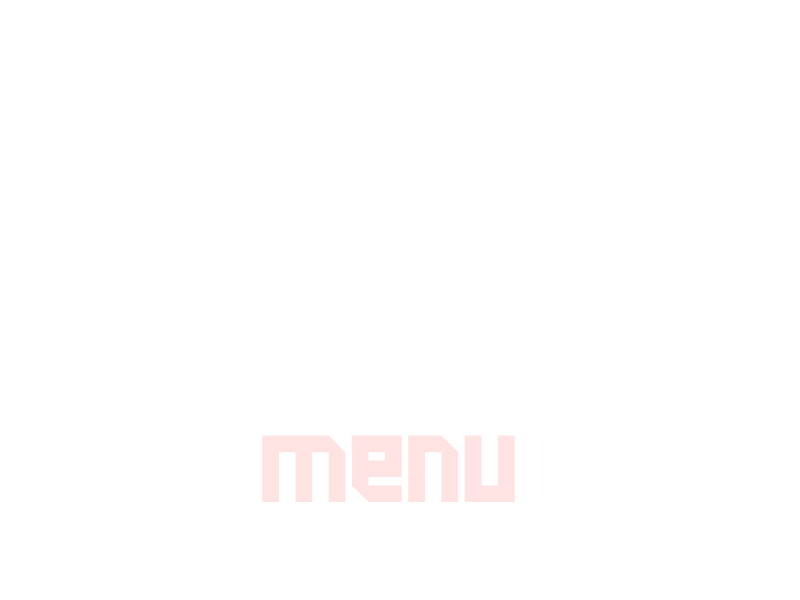
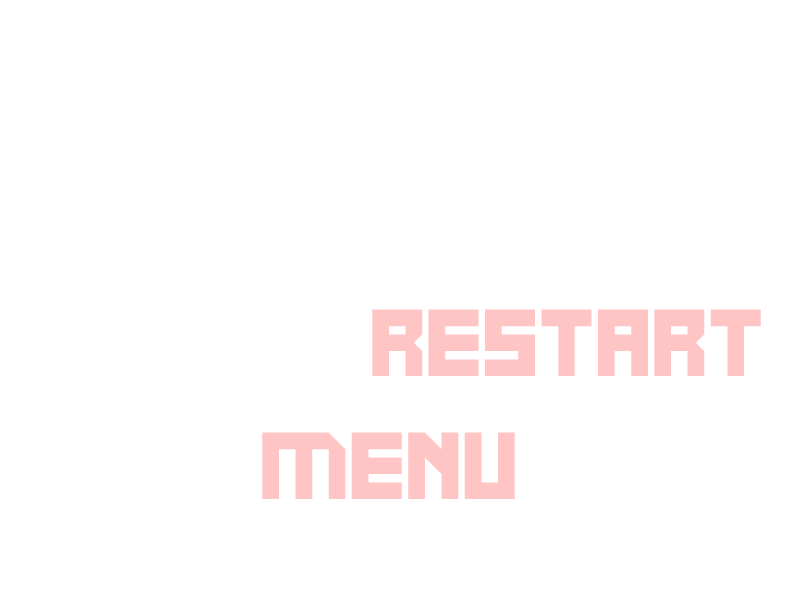
Added score

Changed region(s): [[0.4375, 0.51, 0.9688, 0.63], [0.3125, 0.72, 0.6562, 0.84]]

diff --git a/src/main/java/GameOverScene.java b/src/main/java/GameOverScene.java
@@ -6,22 +6,35 @@ import java.io.File;
 public class GameOverScene extends Scene{
     private ML mouseListener;
     private BufferedImage title, menu, menuPressed, blurBackground, brokenHeart, score, restart, restartPressed;
+    private BufferedImage zero, one, two, three, four, five, six, seven, eight, nine;
     private BufferedImage menuCurrentImage, restartCurrentImage;
     private Rect menuRect, restartRect;
+    private char[] scoreNum = String.valueOf(Food.score).toCharArray();
 
     public GameOverScene(ML mouseListener) {
         this.mouseListener = mouseListener;
+        System.out.println(Food.score);
 
         try {
             BufferedImage background = ImageIO.read(new File("\\Snake\\src\\main\\resources\\background.png"));
             BufferedImage bHeart = ImageIO.read(new File("\\Snake\\src\\main\\resources\\broken-heart-2.png"));
-            BufferedImage spriteSheet = ImageIO.read(new File("\\Snake\\src\\main\\resources\\gameOverMenu1.png"));
+            BufferedImage spriteSheet = ImageIO.read(new File("\\Snake\\src\\main\\resources\\gameOverMenu.png"));
             title = spriteSheet.getSubimage(11, 511, 614, 80);
-            score = spriteSheet.getSubimage(15, 389, 154, 40);
+            score = spriteSheet.getSubimage(15, 389, 184, 40);
             menu = spriteSheet.getSubimage(13, 441, 223, 60);
             menuPressed = spriteSheet.getSubimage(261, 431, 255, 69);
             restart = spriteSheet.getSubimage(16, 317, 343, 60);
             restartPressed = spriteSheet.getSubimage(371, 308, 390, 67);
+            zero = spriteSheet.getSubimage(18, 273, 31, 40);
+            one = spriteSheet.getSubimage(51, 273, 11, 40);
+            two = spriteSheet.getSubimage(64, 273, 31, 40);
+            three = spriteSheet.getSubimage(98, 273, 29, 40);
+            four = spriteSheet.getSubimage(131, 273, 30, 40);
+            five = spriteSheet.getSubimage(164, 273,31 , 40);
+            six = spriteSheet.getSubimage(197, 273, 31, 40);
+            seven = spriteSheet.getSubimage(231, 273, 30, 40);
+            eight = spriteSheet.getSubimage(264, 273, 31, 40);
+            nine =spriteSheet.getSubimage(297, 273, 31, 40);
 
             brokenHeart = bHeart;
             blurBackground = background;
@@ -66,6 +79,23 @@ public class GameOverScene extends Scene{
         graphics.drawImage(title, 100, 90, 594, 80, null);
         graphics.drawImage(menuCurrentImage, 290, 360, 223, 60, null);
         graphics.drawImage(restartCurrentImage, 232, 260, 343, 60, null);
-//        graphics.drawImage(score, 240, 250, 154, 40, null);
+
+        int y = 530;
+        int x = 185;
+        int scoreHeight = 40;
+        graphics.drawImage(score, 20, y, 154, scoreHeight, null);
+
+        for(int i = 0; i < scoreNum.length; i++) {
+            if(scoreNum[i] == '0') {graphics.drawImage(zero, x, y, 31, scoreHeight, null); x += 34;}
+            if(scoreNum[i] == '1') {graphics.drawImage(one, x, y, 11, scoreHeight, null); x += 14;}
+            if(scoreNum[i] == '2') {graphics.drawImage(two, x, y, 31, scoreHeight, null); x += 34;}
+            if(scoreNum[i] == '3') {graphics.drawImage(three, x, y, 29, scoreHeight, null); x += 32;}
+            if(scoreNum[i] == '4') {graphics.drawImage(four, x, y, 30, scoreHeight, null); x += 3;}
+            if(scoreNum[i] == '5') {graphics.drawImage(five, x, y, 31, scoreHeight, null); x += 34;}
+            if(scoreNum[i] == '6') {graphics.drawImage(six, x, y, 31, scoreHeight, null); x += 34;}
+            if(scoreNum[i] == '7') {graphics.drawImage(seven, x, y, 30, scoreHeight, null); x += 33;}
+            if(scoreNum[i] == '8') {graphics.drawImage(eight, x, y, 31, scoreHeight, null); x += 34;}
+            if(scoreNum[i] == '9') {graphics.drawImage(nine, x, y, 31, scoreHeight, null); x += 34;}
+        }
     }
 }

diff --git a/src/main/java/Food.java b/src/main/java/Food.java
@@ -7,6 +7,8 @@ public class Food {
     private Color color;
     private int xPadding;
     public boolean isSpawned;
+    private int count = -1;
+    public static int score;
 
     public Food(Rect background, Snake snake, int width, int height, Color color) {
         this.background = background;
@@ -24,6 +26,8 @@ public class Food {
             double randY = (int) (Math.random() * (int)(background.height / Constants.TILE_WIDTH)) * Constants.TILE_WIDTH + background.y;
             this.rect.x = randX;
             this.rect.y = randY;
+            count++;
+            score = count;
         } while (snake.intersectingWithRect(this.rect));
         isSpawned = true;
     }
@@ -39,5 +43,9 @@ public class Food {
     public void draw(Graphics2D graphics2D) {
         graphics2D.setColor(color);
         graphics2D.fillRect((int)this.rect.x + xPadding, (int)this.rect.y + xPadding, width, height);
+    }
+
+    public int getCount() {
+        return count;
     }
 }

diff --git a/src/main/java/Snake.java b/src/main/java/Snake.java
@@ -2,7 +2,7 @@ import java.awt.*;
 import java.awt.geom.Rectangle2D;
 
 public class Snake {
-    private Rect[] body = new Rect[100];
+    private Rect[] body = new Rect[9999];
     private double bodyWidth, bodyHeight;
     private int size, tail = 0, head = 0;
     private double ogWaitBetweenUpdates = 0.1;
